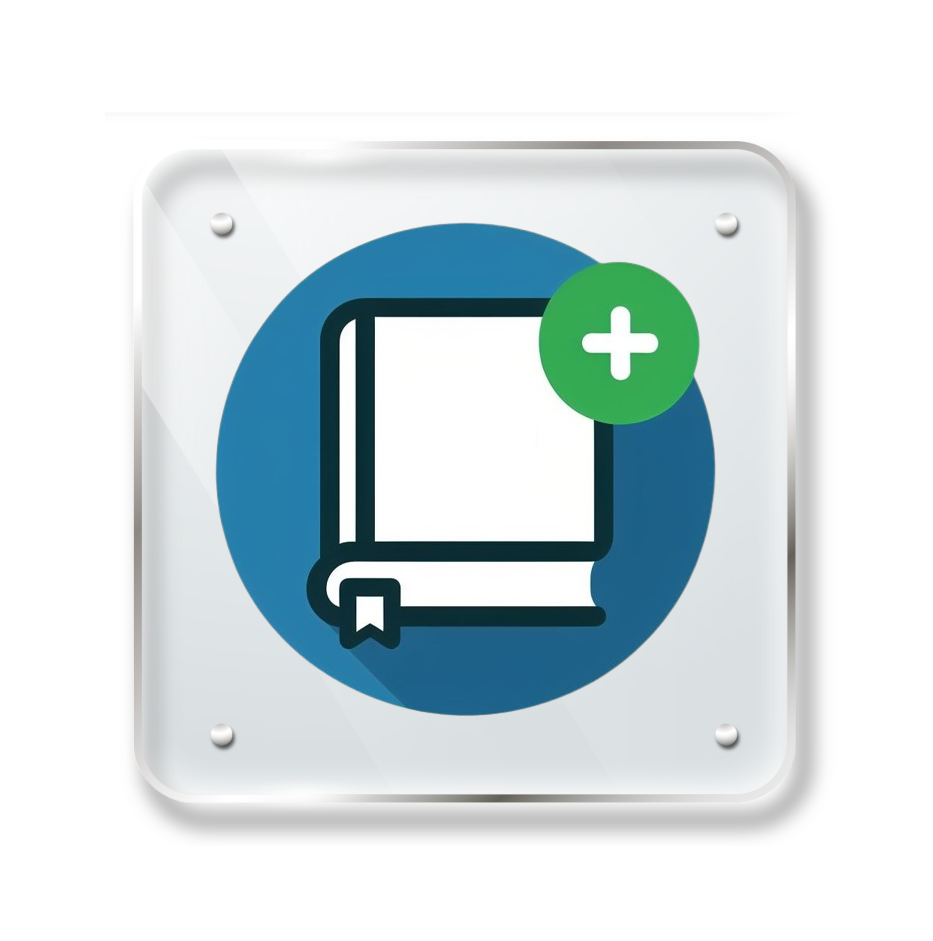
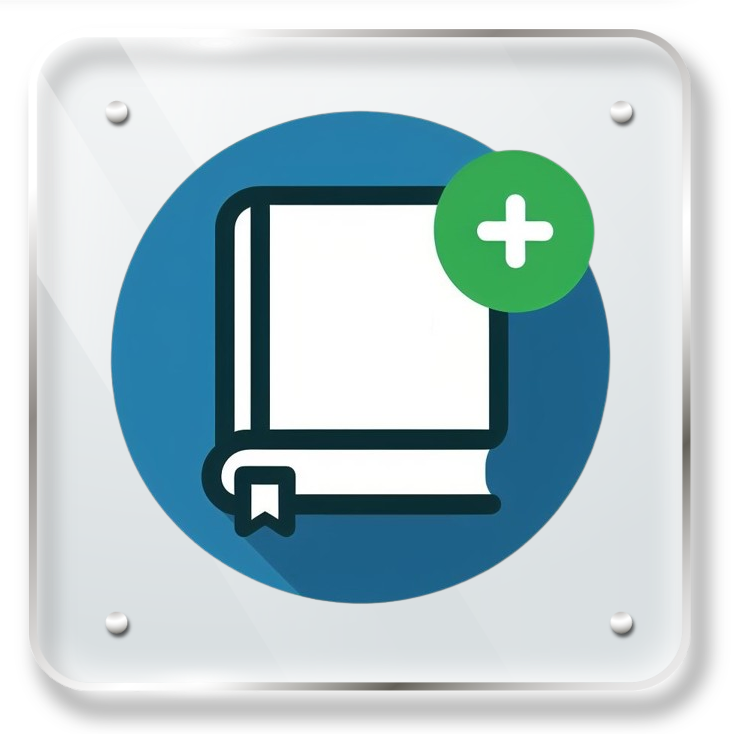
Big Update
Big update: Huge AI prompt and settings fix, updated stylistic icons and tested the app and the AI  more than 289 times

diff --git a/pages/AIChatPage.py b/pages/AIChatPage.py
@@ -1,9 +1,11 @@
 import time
 import customtkinter as ctk
-import sys
+import sys, os
 sys.path.append("..")
 from classes.models import Message
 from tkinter import messagebox
+from customtkinter import CTkCanvas
+from PIL import Image 
 
 '''
 + AIChatPage: Frame that represents the page where the user and AI send chat messages to each other in order to 
@@ -33,23 +35,32 @@ class AIChatPage(ctk.CTkFrame):
 		self.master = master
 		super().__init__(self.master, fg_color=self.master.theme["main_clr"], corner_radius=0)
 
-		# This logic prevents the dynamically resizing msgbox from overexpanding - Nuke The Dev
+		self.chatEntry_height=20
+		self.max_chatEntry_height = 400 # 4 line max view space
+		# This logic prevents the dynamically resizing msgbox from overexpanding - Powered by Nuke The Dev
 		self.msgbox_height=20
-		self.max_msgbox_height = 300
-		
+		self.max_msgbox_height = 1200 # 12 line max view space
+
 		innerPageFrame = ctk.CTkFrame(self, fg_color=self.master.theme["sub_clr"])
 		innerPageFrame.pack(expand=True)
 		header = ctk.CTkFrame(innerPageFrame, fg_color="transparent")
 		heading = ctk.CTkLabel(header, text="Write Your Story!", font=("Helvetica", 32), text_color=self.master.theme["label_clr"])
 		storyStateMessage = ctk.CTkLabel(header, text="", text_color=self.master.theme["label_clr"])
-		self.pageStatusMessage = ctk.CTkLabel(header, text="StoryBot is currently waiting for your input.", text_color=self.master.theme["label_clr"])
+		self.pageStatusMessage = ctk.CTkLabel(header, text="StoryBot is currently waiting for your input.", font=("Helvetica", 24), text_color=self.master.theme["label_clr"])
+
+		# This is where we view the messages sent from the AI and the User
+		self.chatBox = ctk.CTkScrollableFrame(innerPageFrame, fg_color=self.master.theme["main_clr"], width=800, height=400)
 
 		# Section with all of the input options the user has for the AIChatPage
 		chatInputSection = ctk.CTkFrame(innerPageFrame, fg_color="transparent")
-		self.chatEntry = ctk.CTkEntry(chatInputSection, width=300, placeholder_text="Send a message e.g. 'Once upon a time...'", fg_color=self.master.theme["entry_clr"], text_color=self.master.theme["entry_text_clr"], )
-		self.chatBox = ctk.CTkScrollableFrame(innerPageFrame, fg_color=self.master.theme["main_clr"], width=500, height=250)
-		self.openSaveStoryBtn = ctk.CTkButton(chatInputSection,  text="Save Story", text_color=self.master.theme["btn_text_clr"], fg_color=self.master.theme["btn_clr"], hover_color=self.master.theme["hover_clr"], command=lambda: self.master.openPage("saveStoryPage"))
-		self.sendChatBtn = ctk.CTkButton(chatInputSection, text="Send",  text_color=self.master.theme["btn_text_clr"], fg_color=self.master.theme["btn_clr"], hover_color=self.master.theme["hover_clr"], command=self.processUserChat)
+		self.chatEntry = ctk.CTkTextbox(chatInputSection, height=50, width=600, fg_color=self.master.theme["entry_clr"], text_color=self.master.theme["entry_text_clr"], font=("Helvetica", 16), wrap="word", activate_scrollbars=True)
+		openSaveStoryBtn_image = ctk.CTkImage(Image.open(os.path.join(self.master.image_path, 'glass_save_btn.png')),
+				size=(50, 50))
+		self.openSaveStoryBtn = ctk.CTkButton(chatInputSection, image=openSaveStoryBtn_image, height=10, width=20, text="Save Story", font=("Helvetica", 16, "bold"), text_color=self.master.theme["btn_text_clr"], fg_color='transparent', hover_color=self.master.theme["hover_clr"], command=lambda: self.master.openPage("saveStoryPage"))
+		
+		sendChatBtn_image = ctk.CTkImage(Image.open(os.path.join(self.master.image_path, 'glass_send_btn.png')),
+				size=(50, 50))
+		self.sendChatBtn = ctk.CTkButton(chatInputSection, corner_radius=0, image=sendChatBtn_image, height=10, width=20, text="Send", font=("Helvetica", 16, "bold"), text_color=self.master.theme["btn_text_clr"], fg_color='transparent', hover_color=self.master.theme["hover_clr"], hover=True, anchor="e", command=self.processUserChat)
 	
 		# Structure and style widgets accordingly
 		header.grid(row=0, column=0, pady=10)
@@ -59,8 +70,8 @@ class AIChatPage(ctk.CTkFrame):
 		self.chatBox.grid(row=1, column=0, pady=10)
 		chatInputSection.grid(row=2, column=0, pady=20)
 		self.chatEntry.grid(row=0, column=0, padx=10, pady=5)
-		self.sendChatBtn.grid(row=0, column=1, padx=10)
-		self.openSaveStoryBtn.grid(row=0, column=2, padx=10)
+		self.sendChatBtn.grid(row=0, column=1, padx=5)
+		self.openSaveStoryBtn.grid(row=0, column=2, padx=5)
 
 		'''
 		- Cases for the initial state:
@@ -69,6 +80,7 @@ class AIChatPage(ctk.CTkFrame):
 			we're rendering the AI's first response to a user's remixed story, which would be the first message of the chat.
 		3. Using is continuing an unsaved story that isn't a remix.
 		'''
+		
 		if self.master.isSavedStory: 
 			# Render saved messages associated with the current story
 			for messageObj in self.master.currentStory.messages:
@@ -90,7 +102,8 @@ class AIChatPage(ctk.CTkFrame):
 		if self.master.storyGenObj:
 			self.processAIChat()
 
-
+		# call the function once to start the periodic check
+		self.check_length_and_resize()
 	
 	def renderChatMessageObj(self, messageObj):
 		'''
@@ -101,35 +114,32 @@ class AIChatPage(ctk.CTkFrame):
 		# Chat window is read and write now
 		messageText = messageObj.text
 
-
-		# If there are messages write the response in the current msgbox, if not create one then write to it
-		if self.master.msgboxes:
-			msgbox = self.master.msgboxes[len(self.master.msgboxes)]
-			msgbox.insert("1.0", messageText)
-		else:
-			# access the last msgbox to print to
-			msgbox = self.drawMsgBox()
-			msgbox.insert("1.0", messageText)
-
-		num_chars = len(messageObj.text)  # The number of characters in the text
-
-		# Calculate the number of lines at 61 characters per line of text onscreen
-		num_lines = num_chars // 61  # Use integer division to get the number of full lines
-		if num_chars % 61 > 0:  # If there are any remaining characters, they will form an additional line
-			num_lines += 1
-
-		# Calculate the height
-		height = num_lines * 10  # Each line is 10 units high
-
-		# Now you can use `height` to set the height of your CTkTextbox
-		msgbox.configure(height=height)
-		
 		# If it's an AI message, else it was a message sent by the user
 		if messageObj.isAISender:
-			self.drawSenderTag(sender='Story Bot:')
+			messageText = "StoryBot: " + messageText
 		else:
-			self.drawSenderTag(sender=f'{self.master.loggedInUser.username}') 
+			messageText = f"{self.master.loggedInUser.username}: " + messageText 
 
+		# access the last msgbox to print to
+		msgbox = self.drawMsgBox()
+		msgbox.insert("1.0", messageText)
+
+		# Calculate the required height of the message
+		height = self.expandEntryBox(msgLength=messageText)
+		# Now we use the calculated `height` parameter to set the height of the msgbox
+		print('height=', height)
+		msgbox.configure(height=height)
+
+    # Check for the length of text in the entry field and adjust entry field height accordingly
+	def check_length_and_resize(self):
+		# get the text in the CTkTextbox
+		if self.chatEntry_height <= self.max_chatEntry_height:
+			new_height=self.expandEntryBox(self.chatEntry.get('1.0', 'end'))
+			self.chatEntry.configure(height=new_height)
+
+		# schedule the next check in 5000 milliseconds (1 second)
+		self.after(2000, self.check_length_and_resize)
+		
 	def processUserChat(self):
 		'''
 		- Sends the user chat message to the ai, for the ai to respond, then goes to render both of those chat messages
@@ -137,19 +147,19 @@ class AIChatPage(ctk.CTkFrame):
 		2. AIResponse (Generator): Generator object containing text that the AI generated in response to the user
 		'''
 		# Check if user actually sent something
-		if (self.chatEntry.get().strip() == ""):
+		if (self.chatEntry.get('1.0', 'end').strip() == ""):
 			messagebox.showwarning('Empty Message!', 'Please enter a valid message!')
 			return
 
 		# Process and render the user's message
 		# The .strip() method ensures that a user cannot type whitespaces 
 		# before the message content which has been known to cause an openAI api exception
-		userMessage = Message(text=self.chatEntry.get().strip(), isAISender=False)
+		userMessage = Message(text=self.chatEntry.get('1.0', 'end').strip(), isAISender=False)
 		self.renderChatMessageObj(userMessage)
 		self.master.unsavedStoryMessages.append(userMessage) 	
 		
 		# Clear entry widget when user sends a message
-		self.chatEntry.delete(0, "end")
+		self.chatEntry.delete(1.0, "end")
 			
 		AIResponse = self.master.storyGPT.sendStoryPrompt(userMessage.text) 
 		self.master.storyGenObj = AIResponse # type: ignore 
@@ -158,16 +168,23 @@ class AIChatPage(ctk.CTkFrame):
 		self.processAIChat()
 
 	def drawMsgBox(self):
-		msgbox = ctk.CTkTextbox(self.chatBox, fg_color=self.master.theme["entry_clr"], width=450, height=10, wrap="word", activate_scrollbars=True)
-		msgbox.configure(font=("Helvetica", 16))
-		self.master.msgboxes.append(msgbox)
+		msgbox = ctk.CTkTextbox(self.chatBox, fg_color=self.master.theme["entry_clr"], font=("Helvetica", 16), width=750, height=20, wrap="word", activate_scrollbars=False)
 		msgbox.grid(row=len(self.master.msgboxes), column=0, padx=5, pady=5, sticky="nsew")
+		self.master.msgboxes.append(msgbox)
 		return msgbox
 	
-	def drawSenderTag(self, sender):
-		sender_lbl = ctk.CTkLabel(self.chatBox, font=("Helvetica", 12), text=sender)
-		sender_lbl.grid(row=[len(self.master.msgboxes)-1], column=0, padx=10, pady=5, sticky="w")
-		return
+	def expandEntryBox(self, msgLength):
+		num_chars = len(msgLength)  # The number of characters in the text box at hand
+		print('num_chars=', num_chars)
+		# Calculate the number of lines at 100 characters per line of text onscreen
+		num_lines = num_chars // 100  # Use integer division to get the number of full lines
+		print('num_lines=', num_lines)
+		if num_chars % 100 > 0:  # If there are any remaining characters, they will form an additional line
+			num_lines += 1
+		# Calculate the height
+		height = num_lines * 25  # Each line is 25 units high
+		# Now you can use `height` to set the height of your widget
+		return height
 
 	def processAIChat(self):
 		'''
@@ -200,27 +217,25 @@ class AIChatPage(ctk.CTkFrame):
 		# Make the chat box writable
 		msgbox.configure(state="normal")
 
-		self.drawSenderTag(sender='Story Bot:')
-		# Iterate through chunks to render and process them
+		msgbox.insert('end', 'Story Bot: ')
 		for chunk in self.master.storyGenObj: 
 			if any(chunk.endswith(char) for char in ['.', '?', '!']):
 				punct_marks = ['.', '?', '!']
 				for mark in punct_marks:
 					if chunk.endswith(f'{mark}'):
 						msgbox.insert('end', f"{mark}" + " ")
-				# Increment the height of the textbox in real-time
-				inc_height=4
 			else:
 				msgbox.insert('end', chunk)
-				inc_height=2
 			
 			# Enables smooth real time typing
 			if (self.msgbox_height <= self.max_msgbox_height):
-					self.msgbox_height += inc_height
+					new_height=self.expandEntryBox(msgbox.get('1.0', 'end'))
+					self.msgbox_height = new_height
 
 			# Dynamically resize the height of the current msgbox
 			msgbox.update()
 			msgbox.configure(height=self.msgbox_height)
+			time.sleep(0.02)
 			# add the chunk onto the message object's text since we want to keep track of this message; then increment chunkIndex
 			messageObj.text += chunk
 			chunkIndex += 1
@@ -233,6 +248,7 @@ class AIChatPage(ctk.CTkFrame):
 		self.master.storyGenObj = None 
 
 		# Scroll to bottom and make chatbox read only
+		# This allows the user to view the latest text
 		msgbox.see("end-1c")
 		msgbox.configure(state="disabled")
 
@@ -242,4 +258,4 @@ class AIChatPage(ctk.CTkFrame):
 		self.master.sidebar.updateSidebar() 
 
 		# Update the page status message to indicate the ai is done
-		self.pageStatusMessage.configure(text="StoryBot is currently waiting for you input.")
+		self.pageStatusMessage.configure(text="StoryBot is currently waiting for your input.")

diff --git a/pages/storyLibraryPage.py b/pages/storyLibraryPage.py
@@ -1,9 +1,11 @@
 from classes.utilities import convertStoryObjToJSON
 import customtkinter as ctk
-import sys
+import sys, os
 from classes.export import StoryPDF
 from tkinter.filedialog import asksaveasfilename
 import zipfile
+from PIL import Image 
+from tkinter import messagebox
 
 sys.path.append("..")
 
@@ -55,7 +57,9 @@ class storyLibraryPage(ctk.CTkFrame):
         
         # Render section for exporting all stories in the library
         bulkExportBtnFrame = ctk.CTkFrame(innerPageFrame, fg_color="transparent", width=500, height=500)
-        bulkExportStoryBtn = ctk.CTkButton(bulkExportBtnFrame,  text="Export All", command=self.exportAllStories, text_color=self.master.theme["btn_text_clr"], fg_color=self.master.theme["btn_clr"], hover_color=self.master.theme["hover_clr"])
+        bulkExportStoryBtn_image = ctk.CTkImage(Image.open(os.path.join(self.master.image_path, 'glass_bulk_export_btn.png')),
+				size=(75, 75))
+        bulkExportStoryBtn = ctk.CTkButton(bulkExportBtnFrame, image=bulkExportStoryBtn_image, text="Export all to .zip ", height=10, width=5, command=self.exportAllStories, text_color=self.master.theme["btn_text_clr"], fg_color='transparent', hover_color=self.master.theme["hover_clr"])
         bulkExportStoryBtn.pack(expand=True)
         bulkExportBtnFrame.grid(row=0, column=0)
 
@@ -86,8 +90,9 @@ class storyLibraryPage(ctk.CTkFrame):
                                               command=lambda story=story: self.openRemixStoryPage(story))  # type: ignore
             deleteSavedStoryBtn = ctk.CTkButton(cardBody,  text="Delete", text_color=self.master.theme["btn_text_clr"], fg_color=self.master.theme["btn_clr"],
                                                 hover_color=self.master.theme["hover_clr"], command=lambda story=story: self.deleteSavedStory(story))
-            exportStoryBtn = ctk.CTkButton(
-                cardBody,  text="Export", command=lambda story=story: self.exportSavedStory(story), text_color=self.master.theme["btn_text_clr"], fg_color=self.master.theme["btn_clr"], hover_color=self.master.theme["hover_clr"])
+            exportStoryBtn_image = ctk.CTkImage(Image.open(os.path.join(self.master.image_path, 'glass_single_export_btn.png')),
+				size=(50, 50))
+            exportStoryBtn = ctk.CTkButton(cardBody, image=exportStoryBtn_image, text="Export", height=10, width=5, command=lambda story=story: self.exportSavedStory(story), text_color=self.master.theme["btn_text_clr"], fg_color='transparent', hover_color=self.master.theme["hover_clr"])
 
             # Structure the storyCard and its widgets
             storyCard.grid(row=rowIndex, column=columnIndex, padx=10, pady=10)
@@ -221,6 +226,8 @@ class storyLibraryPage(ctk.CTkFrame):
         4. If path for zip file is valid, create zip file and write all pdf data into that file.
             Finally, download the file to the user's entered path.
         '''
+        # Msgbox pop-up to reassure our user that their story is exporting
+        messagebox.showinfo('Export Loading', f'Please wait your stories are loading...') 
         if not self.master.loggedInUser.stories:
             return
         all_stories_pdfs = []

diff --git a/pages/saveStoryPage.py b/pages/saveStoryPage.py
@@ -1,8 +1,9 @@
 import customtkinter as ctk
-import sys
+import sys, os
 sys.path.append("..")
 from classes.models import Story
 from classes.utilities import isEmptyEntryWidgets, clearEntryWidgets
+from PIL import Image 
 
 '''
 + saveStoryPage: Page where the user will save a a story. If we load the frame, that means the we're loading 
@@ -65,7 +66,9 @@ class saveStoryPage(ctk.CTkFrame):
 			storyTitleLabel = ctk.CTkLabel(formFieldsSection, text="Story Title", text_color=self.master.theme["label_clr"])
 			self.storyTitleEntry = ctk.CTkEntry(formFieldsSection, fg_color=self.master.theme["entry_clr"], text_color=self.master.theme["entry_text_clr"])
 			clearFormBtn = ctk.CTkButton(formBtnsSection,  text="Clear", text_color=self.master.theme["btn_text_clr"], fg_color=self.master.theme["btn_clr"], hover_color=self.master.theme["hover_clr"], command=lambda: clearEntryWidgets([self.storyTitleEntry]))
-			saveNewStoryBtn = ctk.CTkButton(formBtnsSection,  text="Save Story", text_color=self.master.theme["btn_text_clr"], fg_color=self.master.theme["btn_clr"], hover_color=self.master.theme["hover_clr"], command=self.saveNewStory)
+			saveNewStoryBtn_image = ctk.CTkImage(Image.open(os.path.join(self.master.image_path, 'glass_save_btn.png')),
+				size=(50, 50))
+			saveNewStoryBtn = ctk.CTkButton(formBtnsSection, image=saveNewStoryBtn_image, height=10, width=5, text="Save Story", text_color=self.master.theme["btn_text_clr"], fg_color='transparent', hover_color=self.master.theme["hover_clr"], command=self.saveNewStory)
 
 			# Structure the widgets
 			self.formErrorMessage.grid(row=2, column=0)

diff --git a/Main.py b/Main.py
@@ -88,11 +88,11 @@ class Sidebar(ctk.CTkFrame):
 			btn_image = ctk.CTkImage(Image.open(os.path.join(self.master.image_path, btn_info["image_name"])),
 				size=(100, 100))
 			
-			navBtn = ctk.CTkButton(navbarBGFrame, corner_radius=0, hover_color=("gray25", "gray30"), height=20, width=30, border_spacing=5,
-				fg_color="transparent", hover=True, image=btn_image, anchor="w", text=btn_name, 
+			navBtn = ctk.CTkButton(navbarBGFrame, image=btn_image, bg_color='transparent', fg_color='transparent', 
+						  text=btn_name, hover_color=self.master.theme["hover_clr"], anchor="w", corner_radius=0, height=5, border_spacing=5,
 				font=("Helvetica", 16, "bold"), text_color=self.master.theme["btn_text_clr"], command=btn_info["command"])
 			
-			navBtn.grid(row=i, column=0)
+			navBtn.grid(row=i+1, column=0)
 
 			self.navBtns.append(navBtn)  # Store the button with its name as the key
 
@@ -226,7 +226,7 @@ class App(ctk.CTk):
 			is dark theme color
 		'''
 		self.theme = {
-			"main_clr": ("#FFFFFF", "#030712"),
+			"main_clr": ("#E9EDEF", "#030712"),
 			"sub_clr": ("#9ca3af", "#0f172a"),
 			"label_clr": ("#000000", "#FFFFFF"),
 			"btn_clr": ("#4267B2", "#9ca3af"),

diff --git a/ai.py b/ai.py
@@ -242,13 +242,13 @@ class StoryGPT(ModelBase):
         )
 
         # Default response length and story writing style
-        self.response_style = "descriptive"
+        self.response_style = "entertaining"
 
     def sendStoryPrompt(self, topic: str):
         '''
         Modifies the prompt to instruct ChatGPT to create a story
         '''
-        self.prompt = f"Topic: {topic}\nStyle: {self.response_style}"
+        self.prompt = f"Topic: Write a story about {topic}\n in the Style of: {self.response_style}"
         self.prompt += self.manager.inject()
         self.prompt += "Does the User's request violate any of the rules? If yes, say this to the user: \"This rule was broken and specify the rule broken\" If not, continue with the story and do not I repeat, Do not explain that you're following the rules. Do not confirm with the user that their request is valid. Rather, only tell them when their request is not valid.\n\n"
         response = self.complete()

diff --git a/pages/remixStoryPage.py b/pages/remixStoryPage.py
@@ -2,6 +2,7 @@ import customtkinter as ctk
 import sys
 sys.path.append("..")
 from classes.models import Message
+from tkinter import messagebox
 
 '''
 + remixStoryPage: Frame that represents the page that allows the user to remix a story. User will be able 
@@ -68,6 +69,7 @@ class remixStoryPage(ctk.CTkFrame):
 		2. AIMessage (Message): Message object representing the text that the AI generated in reply
 			to the user.
 		'''
+		messagebox.showinfo('Remix Loading', f'Please wait your story is currently being remixed...') 
 		# Check if user entered text for remixing
 		if self.remixInput.get("1.0", "end-1c").strip() == "":
 			self.formErrorMessage.configure(text="Please at least enter text for the remix!")
